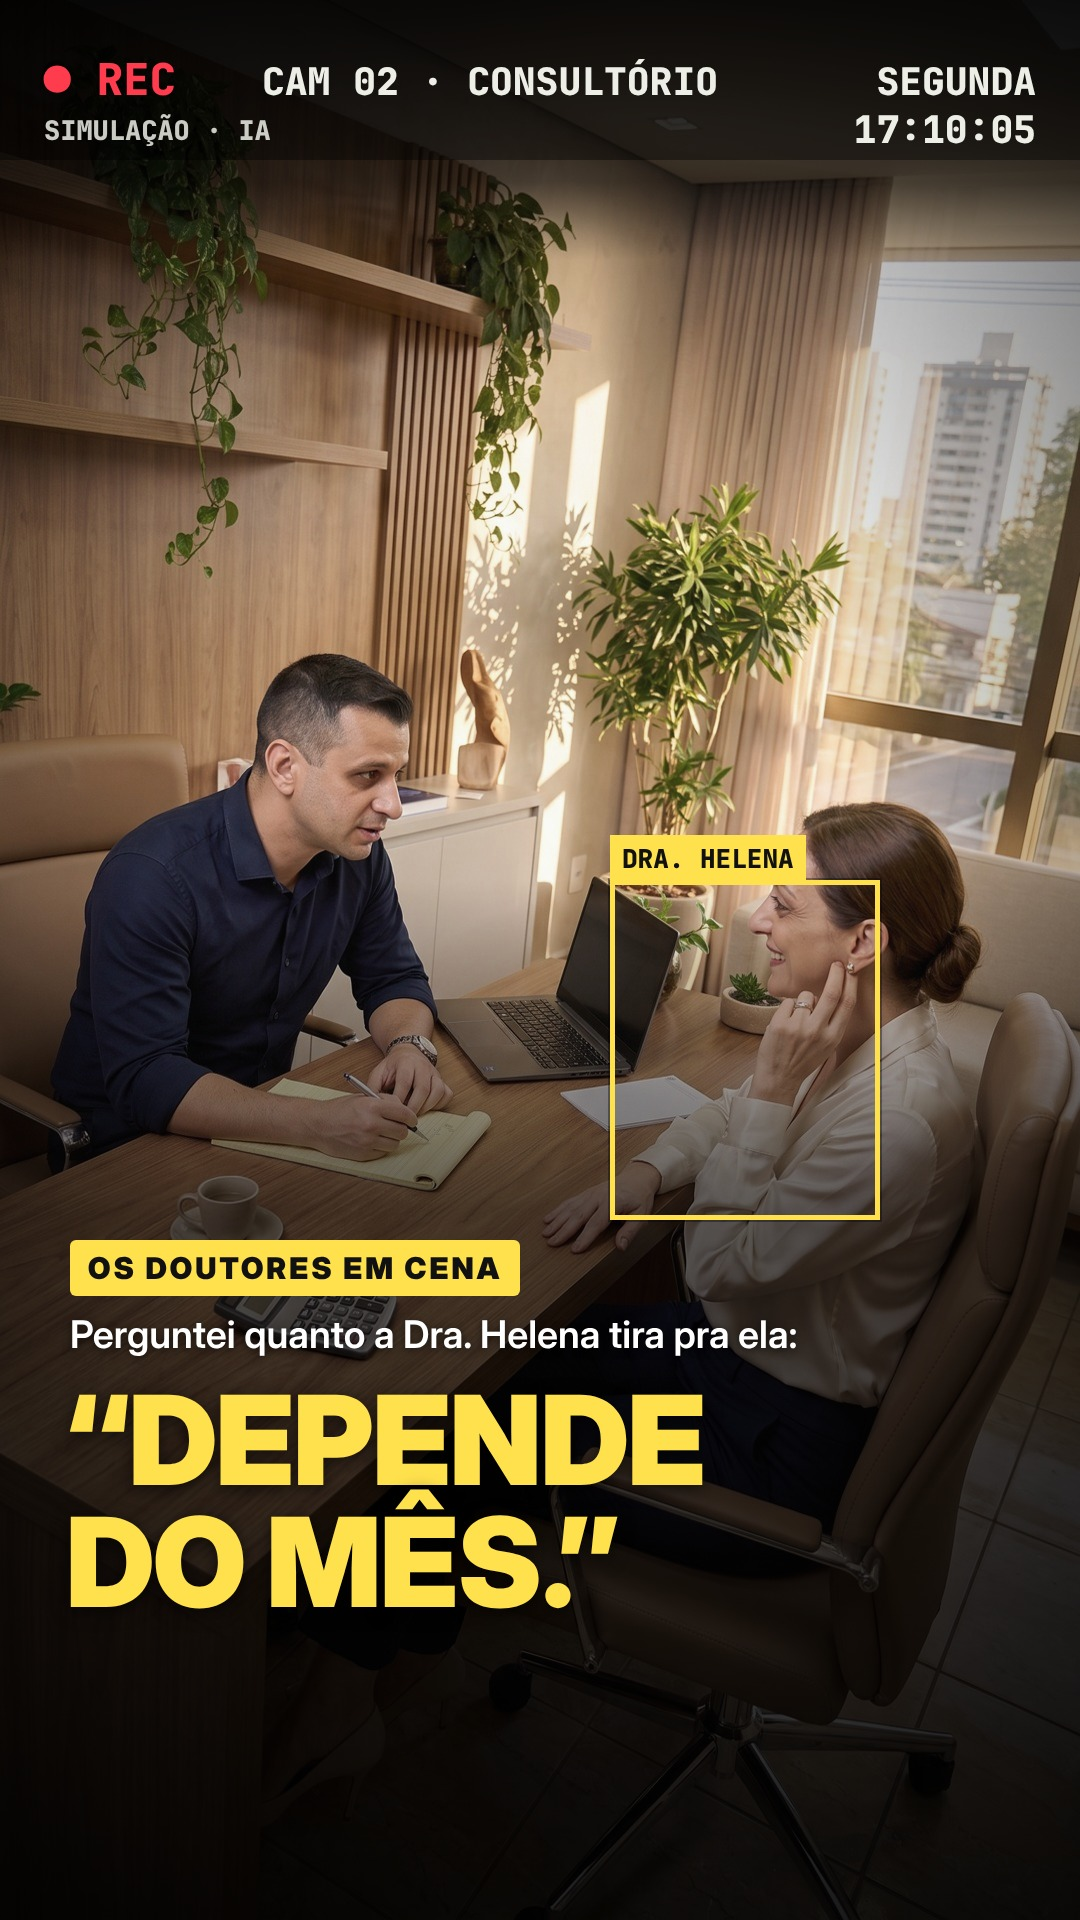
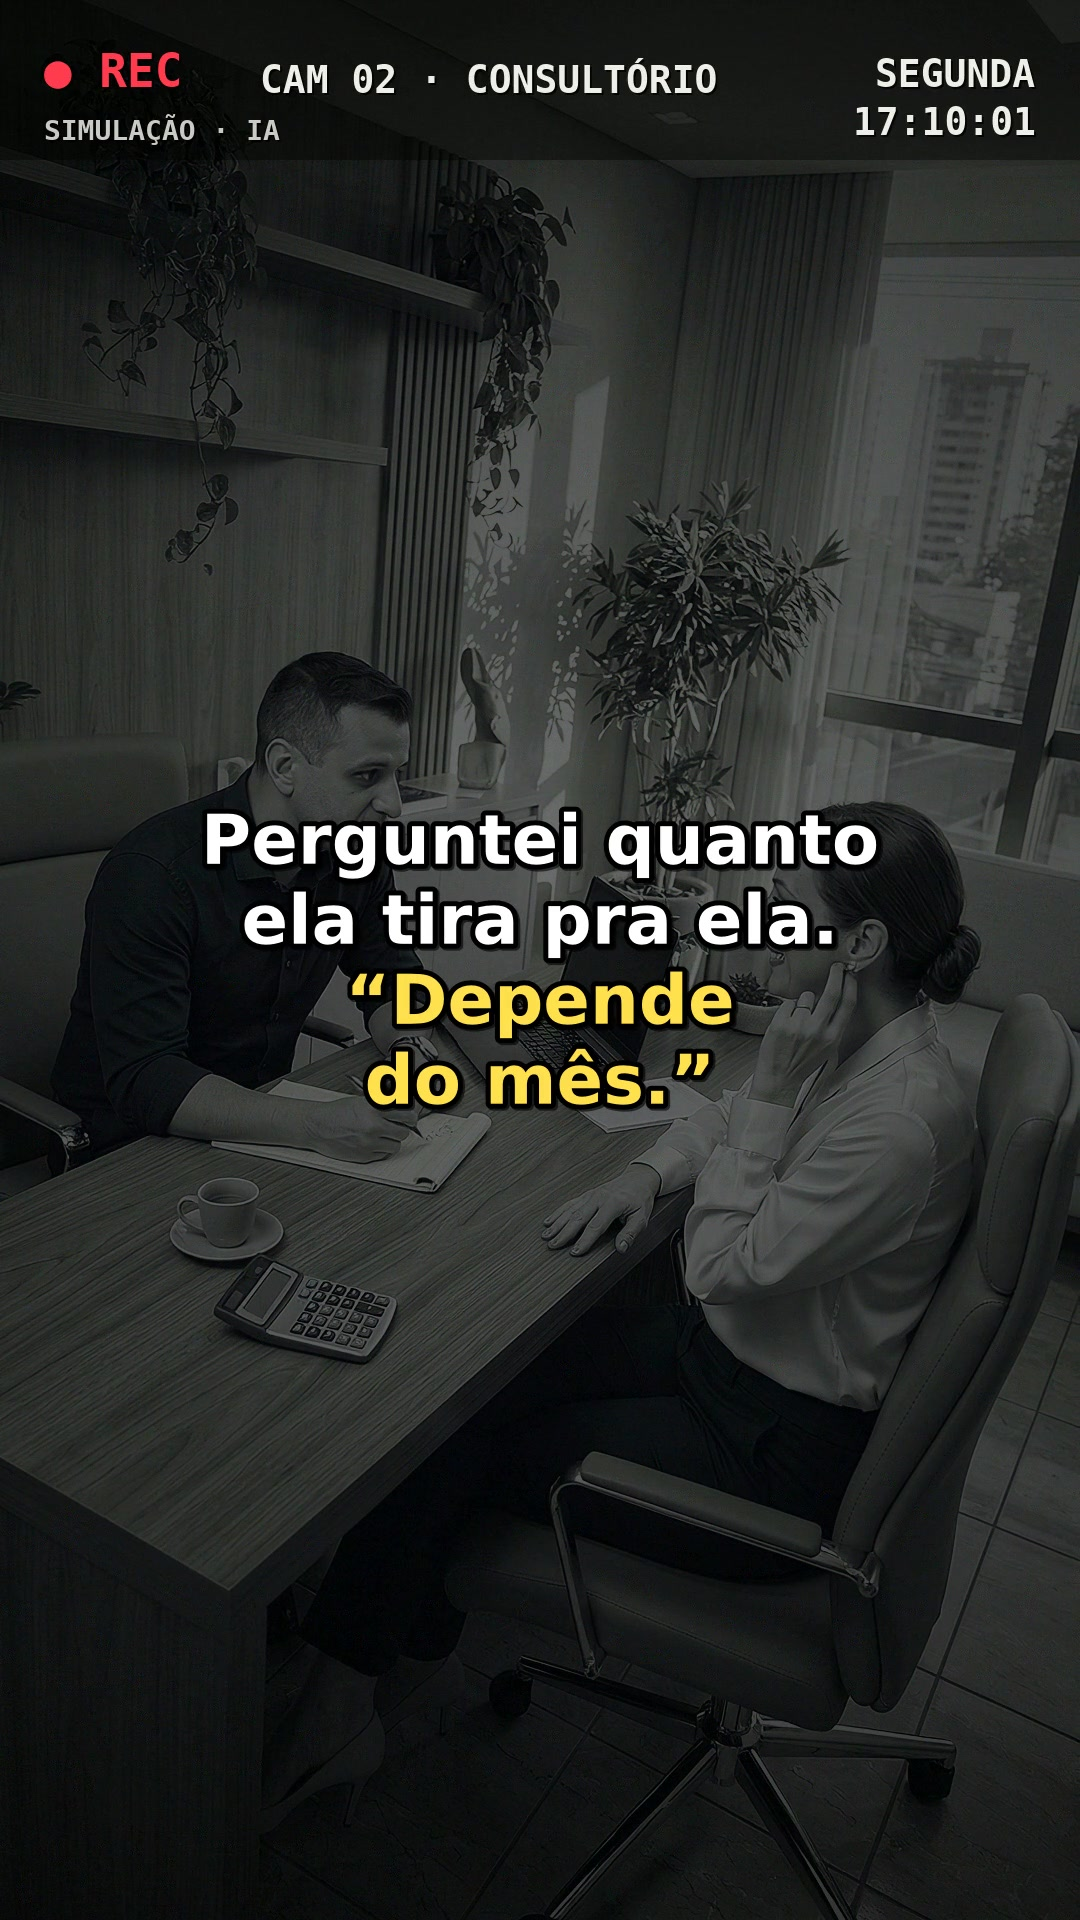
Capas = quadro da frase de abertura; calendário e memória atualizados
Claude-Session: https://claude.ai/code/session_01Q8A1R5mLqHag5R24y5XYvQ

diff --git a/CLAUDE.md b/CLAUDE.md
@@ -28,8 +28,8 @@
 - O CI-01 já foi publicado e está fechado: não mexer mais nele. Ele é a referência de formato para os próximos.
 - Público pagante: doutores de 35 a 55 anos que ainda investem, vivem na correria, atendem muito plano, fazem conta e não sabem se o mês fechou (mentalidade antiga, mas bom pagante). Personagens dessa idade.
 - Cenários de alto padrão (mármore, madeira, clínica chique) para contrastar com a dor. Evitar clínica com cara de popular ou antiga. Dores fortes do dia a dia: investiu na clínica e não teve retorno, tráfego pago sem medir conversão, desconto por medo de falar preço, faturamento sem saber se sobrou.
-- Todo vídeo sai com três peças: o Reel, a capa (1080×1920, manchete dentro da faixa central 3:4) e a legenda do post (primeira linha forte, história, conta, dica prática, chamada, aviso de IA).
-- Abertura sem tela preta: a frase de gancho vai no topo da primeira cena. Fechamento forte: o último quadro congela, a câmera dá zoom em REC, a gravação "pausa", a conta aparece com os números subindo, depois a frase e a chamada.
+- Todo vídeo sai com o Reel e a legenda do post (primeira linha forte, história, conta, dica prática, chamada, aviso de IA). Desde 10/11/2026 não há capa desenhada: o vídeo abre com 2,5 s no estilo do CI-01 (primeiro quadro congelado e escurecido, frase forte grande no meio, parte final em amarelo; `"abertura"` no JSON da montagem e uma cena-cartão no começo) e esse quadro é a capa do post (`midia/<slug>/capa.jpg`, tirado do segundo 1).
+- Abertura: frase forte grande no meio, sobre a primeira cena escurecida (não tela preta), por 2,5 s; ela vira a capa do post. Fechamento forte: o último quadro congela, a câmera dá zoom em REC, a gravação "pausa", a conta aparece com os números subindo, depois a frase e a chamada.
 
 ## Lote de teste (5S-01, CI-09, PO-02, E-01, E-02, E-05)
 
@@ -48,6 +48,7 @@
 - 05/11/2026 (noite): CI-14 e CI-15 PRONTOS em `midia/ci-14-nem-sempre-o-cliente-tem-razao/` e `midia/ci-15-recepcao-lotada/` (Reel, capa, legenda) e na pasta "Circuito Interno" do Creative Cloud; E-02 e E-04 com todas as falas sincronizadas. Custo real das duas: ≈ US$ 23 no fal. Lições: (1) o Veo barra agressão explícita ("furious", "points her finger", "sweeps everything off") e às vezes um quadro inteiro (o CI-14_C v2 nunca passou): suavizar ("upset", "complains", a bolsa derruba o vaso sem querer) ou usar a outra variação do quadro; (2) a sincronia recusa rosto de costas, de perfil fechado ou pequeno no 1º quadro ("could not use the selected speaker face"): apontar com `rosto_quadro` num quadro em que o rosto aparece, e pular quem está de costas (a boca nem aparece); (3) depois de sincronizar uma cena, não mudar `vel`/`hold`/`t` dela: a sincronia é feita no tempo final e teria de ser paga de novo; (4) o Veo às vezes separa mãe e filha ao sair da cena: cortar antes (`ate`) em vez de gerar de novo.
 - Roteiros (pedido do Gabriel em 05/11): CI-14 "Nem sempre o cliente tem razão" (paciente grosseira na recepção do Dr. Otávio, xinga os pacientes, recebe no consultório a notícia de repetir o exame em 30 dias, derruba tudo e sai; fecha com a pergunta "E nesse caso: o paciente tem razão?") e CI-15 "Recepção lotada não é paciente bem atendido" (mãe com a filha tenta marcar a ginecologista pelo WhatsApp por dois dias, vai na clínica, a recepção lotada não dá conta e ouve "pelo WhatsApp é mais rápido"; chamada com EXAME). Prompts em `cenas.json`, falas em `falas.json`, montagem em `montagem/CI-14.json` e `CI-15.json`, legendas no `legendas_post.md`. Os quadros B e D saem do último quadro do clipe anterior (grátis e mantém a continuidade). Custo estimado: CI-14 ≈ US$ 12,70 e CI-15 ≈ US$ 10,80.
 - CI-15 v2 (pedido do Gabriel, 05/11 noite): a abertura virou cenas separadas: em casa (close no rosto, ela pega o celular e digita) → close das mãos digitando → a tela do celular ocupando o quadro inteiro 9:16 com a conversa de ontem ("4 horas depois…", "…e mais nada.") → a tela encolhe até o celular na mão, no canto direito, e ela na rua com a filha manda "Oi?? Alguém??" e "Vou passar aí." → recepção. No `celular.py`: `"tela_cheia": true`, `"encolher": {saida, dur, x, y, escala}` (transição da tela cheia até o celular) e `"escala"` no celular pequeno para não cobrir o rosto de quem está na cena; na montagem, `"some": s` faz a tela sumir aos poucos. Está no Creative Cloud como `CI-15_recepcao-lotada_v2.mp4`.
+- Postagem (10/11/2026): já postados CI-01, CI-11, CI-12 e CI-14. Calendário dos outros em `midia/calendario-novembro.md`, 1 por dia às 19h: CI-15 (10/11), CI-13, E-02, PO-02, E-04; E-06 depois de refazer o Gabriel. Não há conector para publicar no Instagram: ou o Gabriel agenda no Meta Business Suite, ou liga o Postiz (CLI `postiz` instalada; chave pelo request_credential para api.postiz.com).
 - Palavra da chamada por tema: DIAGNÓSTICO (nível da clínica, padrão) ou EXAME ("que eu avalio o atendimento da tua clínica"), em `fecho.cta` e `fecho.sub`.
 - Tela de celular (conversa, notificação) é desenhada por nós: `producao/pipeline/celular.py montagem/<id>_chat.json` gera um .mov transparente em `media/` e os sons de tela (`som_msg_eu`, `som_msg_ela`, `som_notif`). Na montagem: `"sobre": [{"arquivo": "...mov", "de": s}]` na cena, `"sem_hud": true` para cena fora da câmera de segurança, e fala com `"limpo": true` para som sem o filtro de câmera. Nunca usar nome real de clínica ou de pessoa da conversa de exemplo (print do Gabriel tinha nomes reais): clínica fictícia "Clínica Venna".
 - Imagens mandadas no chat agora chegam como arquivo na pasta `images/` da sessão (desde 05/11/2026, à tarde); antes só apareciam na conversa. Dá para usar as fotos do Gabriel como referência quando ele reenviar.

diff --git a/midia/calendario-novembro.md b/midia/calendario-novembro.md
@@ -1,9 +1,11 @@
 # Calendário de postagem · 1 vídeo por dia, às 19h (horário de Brasília)
 
 Já postados: CI-01 (Dra. Renata), CI-11 (Dra. Helena), CI-12 (Dr. Otávio) e CI-14 (nem sempre o cliente tem razão).
-Sem capa: o primeiro quadro de cada vídeo já é a abertura com a frase forte. Ligar o rótulo de IA do Instagram ao postar.
+Capa: a frase forte da abertura. Ao agendar, use a `capa.jpg` da pasta do vídeo (é o quadro da frase) ou escolha o primeiro quadro do vídeo. Ligar o rótulo de IA do Instagram ao postar.
 
 ## 10/11 (terça) · 19h · CI-15
+
+Capa: a frase de abertura (`capa.jpg` na mesma pasta)
 
 Vídeo: `midia/ci-15-recepcao-lotada/reels.mp4`
 
@@ -27,6 +29,8 @@ Vídeo criado com IA. Personagens e clínica fictícios, situações reais. Núm
 
 ## 11/11 (quarta) · 19h · CI-13
 
+Capa: a frase de abertura (`capa.jpg` na mesma pasta)
+
 Vídeo: `midia/ci-13-o-desconto-que-ninguem-pediu/reels.mp4`
 
 ```text
@@ -49,6 +53,8 @@ Vídeo criado com IA. Personagens fictícios, situações reais. Números de sim
 
 ## 12/11 (quinta) · 19h · E-02
 
+Capa: a frase de abertura (`capa.jpg` na mesma pasta)
+
 Vídeo: `midia/e-02-depende-do-mes/reels.mp4`
 
 ```text
@@ -69,6 +75,8 @@ Vídeo criado com IA. Os doutores são personagens fictícios. A voz é a minha,
 
 ## 13/11 (sexta) · 19h · PO-02
 
+Capa: a frase de abertura (`capa.jpg` na mesma pasta)
+
 Vídeo: `midia/po-02-mais-um-plantao/reels.mp4`
 
 ```text
@@ -86,6 +94,8 @@ Vídeo criado com IA. Personagem fictício, situação real.
 ```
 
 ## 14/11 (sábado) · 19h · E-04
+
+Capa: a frase de abertura (`capa.jpg` na mesma pasta)
 
 Vídeo: `midia/e-04-fala-o-preco-pra-mim/reels.mp4`
 
